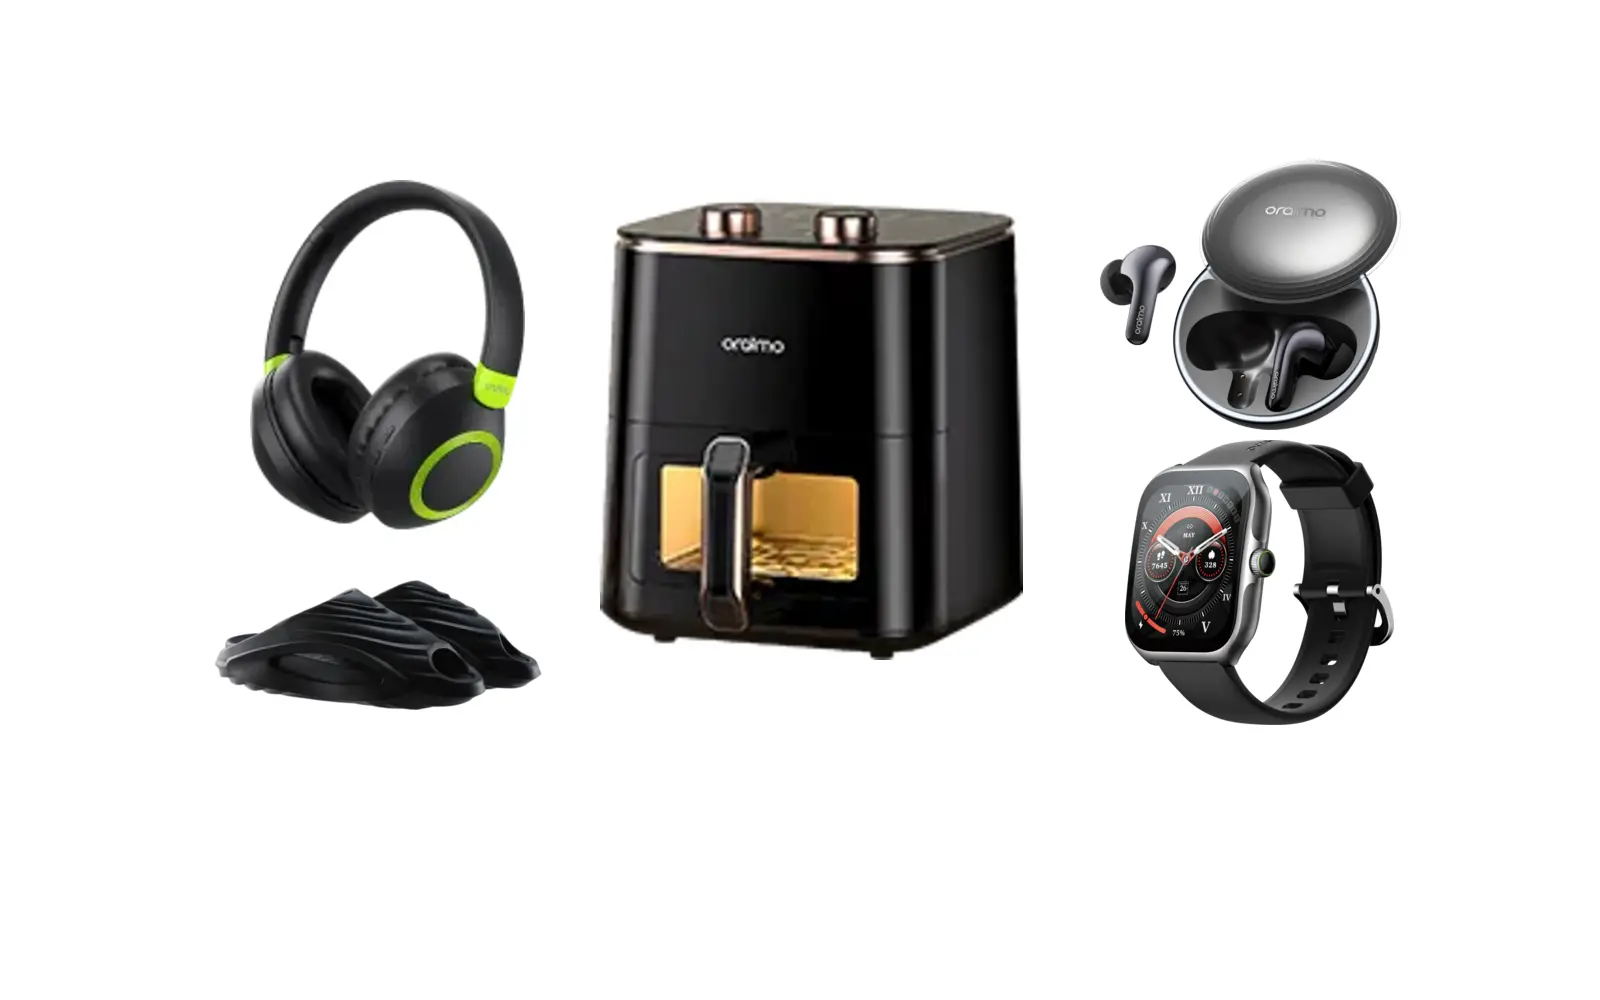
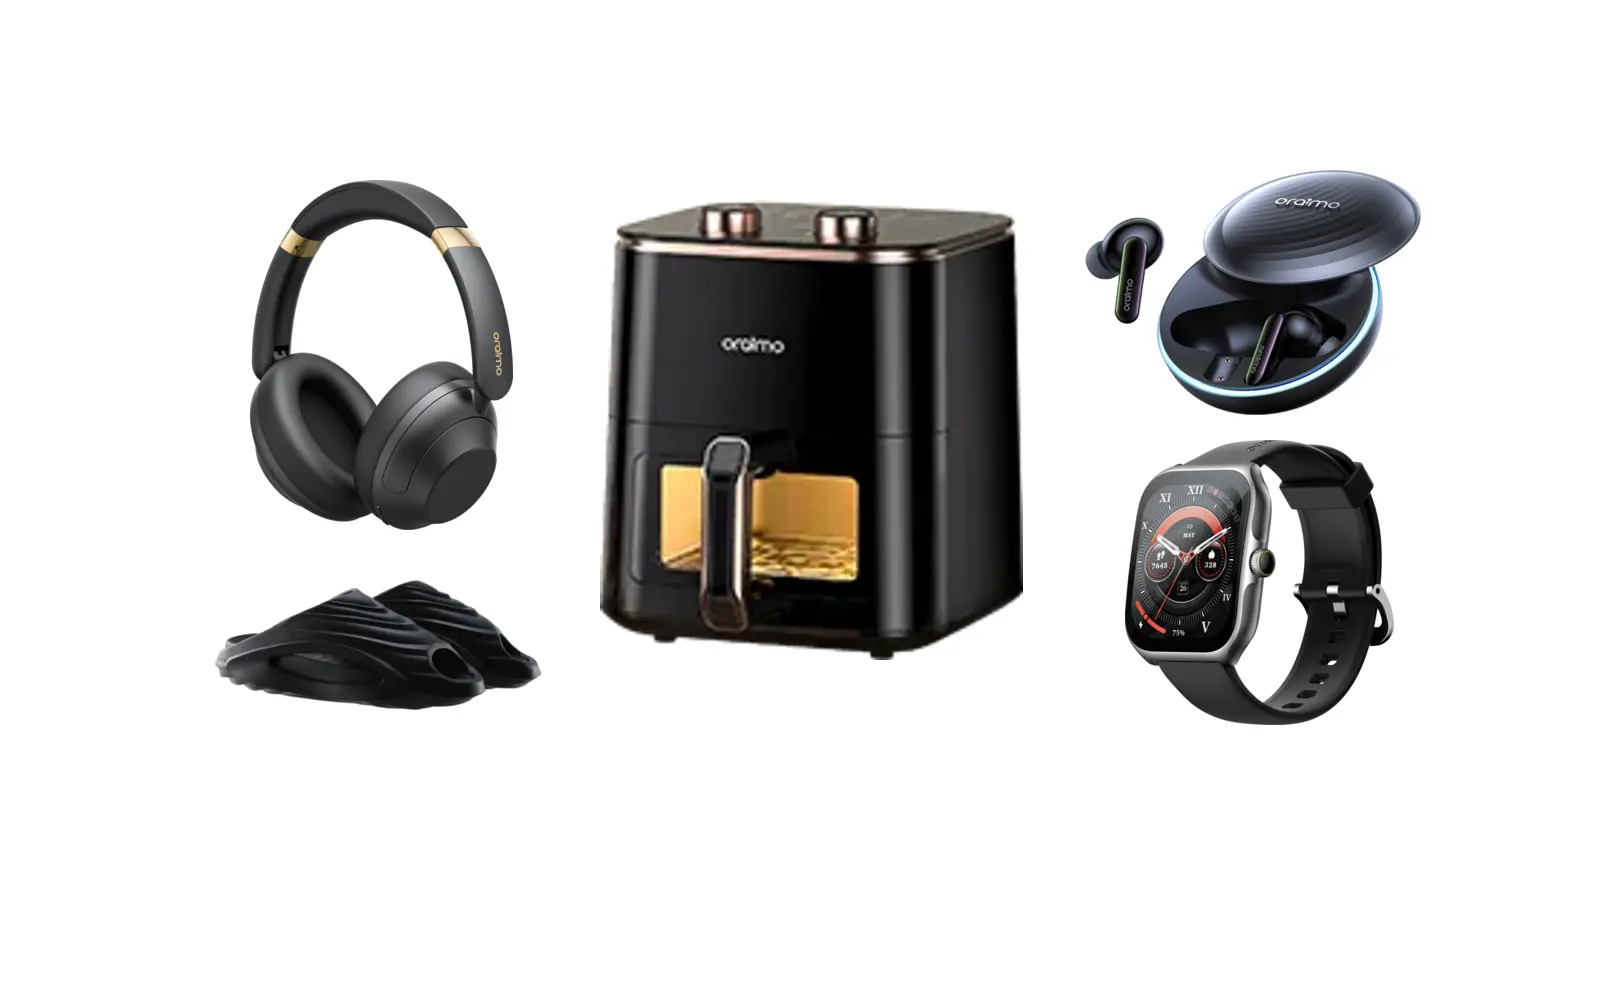
Billet Oraimo : BoomPop Pro, SpaceBuds (premier modèle) et MistGlide
Corrections de l'auteur (FR et EN) :
- le casque est le BoomPop Pro, pas le BoomPop 2 ;
- les écouteurs sont les SpaceBuds (premier modèle, OTW-630), pas les
  SpaceBuds 2 : nouveau lien vers la fiche oraimo.com ;
- le MistGlide a 6 mois : « peut-être » disparaît.

Photos remplacées (oraimo-spacebuds.webp, oraimo-boompop-pro.webp),
anciennes supprimées, couverture et carte OG refaites avec les bons
produits. updatedAt renseigné : un fait du billet est corrigé.

Claude-Session: https://claude.ai/code/session_015fgg94e3Knw2Sr3SywF1Nt

Changed region(s): [[0.1562, 0.155, 0.3438, 0.527], [0.6562, 0.155, 0.9062, 0.434]]

diff --git a/content/fr/20261103-oraimo-avis-produits-rapport-qualite-prix.md b/content/fr/20261103-oraimo-avis-produits-rapport-qualite-prix.md
@@ -1,6 +1,7 @@
 ---
 title: "Avis produits Oraimo : tout, tout, tout"
 createdAt: "2026-11-09T19:05:00Z"
+updatedAt: "2026-11-09T19:19:00Z"
 image: "/images/articles/oraimo-produits.webp"
 description: "Mon avis sur les produits Oraimo : batterie, écouteurs, air fryer, balai, mug. Ceux que je rachèterais, et ceux que je ne rachèterais pas. Sans commission."
 searchIntent: "Les produits Oraimo (écouteurs, batterie externe, électroménager, ménage, vêtements) valent-ils vraiment leur prix ?"
@@ -23,9 +24,9 @@ Mon premier produit Oraimo, et donc mon premier contact avec la marque, est une 
 
 ![Écouteurs filaires intra-auriculaires Oraimo CONCH, noirs, avec une télécommande sur le fil et une prise jack 3,5 mm](/images/articles/oraimo-conch-2.webp)
 
-Puis un jour, en allant faire les courses, j'ai perdu le boîtier de charge de mes Sony WF-C500. (Au passage, impossible de les recharger avec le boîtier d'autres écouteurs Sony : j'ai essayé avec celui des WF-1000XM4.) Je cherchais une solution pas trop chère, alors j'ai acheté les [Oraimo SpaceBuds 2](https://ci.oraimo.com/product/oraimo-spacebuds-2-true-wireless-earbuds-otw-631-spacegrey){target="_blank" rel="noopener"}. Ils sont meilleurs que je ne le pensais, même si la réduction du bruit ambiant est passable. L'autonomie, elle, est bonne. Et surtout, ils ont survécu à un passage en machine (cycle Quick 45 minutes, 40 °C).
+Puis un jour, en allant faire les courses, j'ai perdu le boîtier de charge de mes Sony WF-C500. (Au passage, impossible de les recharger avec le boîtier d'autres écouteurs Sony : j'ai essayé avec celui des WF-1000XM4.) Je cherchais une solution pas trop chère, alors j'ai acheté les [Oraimo SpaceBuds](https://oraimo.com/en/product/beyond-sound-spacebuds){target="_blank" rel="noopener"}, le premier modèle. Ils sont meilleurs que je ne le pensais, même si la réduction du bruit ambiant est passable. L'autonomie, elle, est bonne. Et surtout, ils ont survécu à un passage en machine (cycle Quick 45 minutes, 40 °C).
 
-![Écouteurs sans fil Oraimo SpaceBuds 2 gris sidéral, posés dans leur boîtier de charge ouvert](/images/articles/oraimo-spacebuds-2.webp)
+![Écouteurs sans fil Oraimo SpaceBuds noirs, posés devant leur boîtier de charge ouvert, éclairé d'un anneau bleu](/images/articles/oraimo-spacebuds.webp)
 
 ### La batterie externe
 
@@ -53,7 +54,7 @@ Une fois le repas cuisiné, il faut nettoyer. Pour la vaisselle, j'ai l'[Oraimo 
 
 ![Brosse électrique rotative sans fil Oraimo, blanche, entourée de ses cinq têtes de rechange](/images/articles/oraimo-ultracleaner-scrubber.webp)
 
-Et j'ai le [MistGlide](https://ci.oraimo.com/product/oraimo-mistglide-multi-surface-use-deep-cleaning-spray-mop--ohcs-001){target="_blank" rel="noopener"}, qui est peut-être le balai à spray qui m'a duré le plus longtemps.
+Et j'ai le [MistGlide](https://ci.oraimo.com/product/oraimo-mistglide-multi-surface-use-deep-cleaning-spray-mop--ohcs-001){target="_blank" rel="noopener"}. Je l'ai depuis 6 mois : c'est le balai à spray qui m'a duré le plus longtemps.
 
 ![Balai à spray Oraimo MistGlide, avec son réservoir fixé sur le manche et sa tête plate en microfibre](/images/articles/oraimo-mistglide.webp)
 
@@ -77,9 +78,9 @@ J'ai aussi les polos EcoLuxe, à 9 000 FCFA. Ils sont confortables. Le bémol 
 
 ## Je ne rachète pas
 
-J'ai le casque Oraimo BoomPop 2. C'est un bon casque, avec une bonne autonomie, mais un son qui n'a rien d'exceptionnel, tout comme sa réduction de bruit. Pire : les coussinets en similicuir sont en train de s'effriter.
+J'ai le casque Oraimo BoomPop Pro. C'est un bon casque, avec une bonne autonomie, mais un son qui n'a rien d'exceptionnel, tout comme sa réduction de bruit. Pire : les coussinets en similicuir sont en train de s'effriter.
 
-![Casque sans fil Oraimo BoomPop 2, noir avec des anneaux vert fluo autour des écouteurs](/images/articles/oraimo-boompop-2.webp)
+![Casque sans fil Oraimo BoomPop Pro, noir avec des touches dorées sur l'arceau](/images/articles/oraimo-boompop-pro.webp)
 
 J'adore les montres connectées. J'ai déjà parlé de l'Oraimo Watch Nova AM dans [mon comparatif avec l'Infinix Watch 3](/fr/20251225-infinix-ou-oraimo). Aujourd'hui, je ne porte plus ni l'une ni l'autre : j'ai une [Google Pixel Watch](/fr/20260311-comment-allumer-lecran-pixel-watch-notifications), qui est meilleure.
 
@@ -90,24 +91,24 @@ J'adore les montres connectées. J'ai déjà parlé de l'Oraimo Watch Nova AM da
 | Produit | Prix payé (FCFA) | Je rachète ? | En une phrase |
 |---|---|---|---|
 | Écouteurs CONCH | 2 000 à 3 000 | Oui | Solides, avec des basses un peu trop fortes. |
-| Écouteurs SpaceBuds 2 | 20 000 | Oui | Bonne autonomie, réduction de bruit passable, et ils ont survécu à la machine à laver. |
+| Écouteurs SpaceBuds | 20 000 | Oui | Bonne autonomie, réduction de bruit passable, et ils ont survécu à la machine à laver. |
 | Batterie PowerJet 130 | 32 500 | Oui | Très bonne, et elle gère bien en déplacement. |
 | Mug ThermoGo | 7 000 | Oui | Un mug isotherme de 750 ml, qui garde le frais plus d'une demi-journée. |
 | Bouteille MegaDrink 1200 | 12 000 | Oui | Une bouteille isotherme de 1,2 L, étanche, qui garde le frais plus d'une demi-journée. |
 | Friteuse SmartAirFryer | 30 000 | Oui | Aucune odeur de plastique brûlé, et elle se nettoie très facilement. |
 | Brosse rotative Ultra Cleaner Scrubber | 9 000 | Oui | Elle dégraisse casseroles et comptoirs. |
-| Balai MistGlide | 7 000 | Oui | Le balai à spray qui m'a duré le plus longtemps. |
+| Balai MistGlide | 7 000 | Oui | Le balai à spray qui m'a duré le plus longtemps : 6 mois à ce jour. |
 | Brosse à dents MagniSonic | 5 000 | Oui | Très efficace. |
 | T-shirts NanoShield | 7 000 | Oui | Confortables, ils résistent aux taches. |
 | Claquettes CrestFrom | 4 900 | Oui | Très confortables, et très inspirées des Yeezy Foam Runner. |
 | Plaque FlexiCooker | 30 000 | Oui, avec un bémol | Certains programmes consomment plus d'électricité que d'autres. |
 | Polos EcoLuxe | 9 000 | Oui, avec un bémol | Confortables, mais en tailles chinoises, donc plus petits. |
-| Casque BoomPop 2 | 25 000 | Non | Son et réduction de bruit ordinaires, coussinets qui s'effritent. |
+| Casque BoomPop Pro | 25 000 | Non | Son et réduction de bruit ordinaires, coussinets qui s'effritent. |
 | Montre Watch Nova AM | 15 000 | Non | Ma Google Pixel Watch est meilleure. |
 
 Ce sont les prix que j'ai payés à Abidjan, sur Glovo, chez un vendeur à deux rues de chez moi ou sur le site d'Oraimo. En ligne, ils changent souvent avec les promotions.
 
-Presque tous ces produits sont de bonne qualité pour leur petit prix. Les exceptions : le casque BoomPop 2 et la Watch Nova AM.
+Presque tous ces produits sont de bonne qualité pour leur petit prix. Les exceptions : le casque BoomPop Pro et la Watch Nova AM.
 
 _Images : Oraimo._
 

diff --git a/content/en/20261103-oraimo-avis-produits-rapport-qualite-prix.md b/content/en/20261103-oraimo-avis-produits-rapport-qualite-prix.md
@@ -1,6 +1,7 @@
 ---
 title: "Oraimo review: everything, everything"
 createdAt: "2026-11-09T19:05:00Z"
+updatedAt: "2026-11-09T19:19:00Z"
 image: "/images/articles/oraimo-produits.webp"
 description: "My Oraimo review: power bank, earbuds, air fryer, mop, mug. The products I'd buy again, and the ones I wouldn't. No commission, just everyday use."
 searchIntent: "Are Oraimo products (earbuds, power bank, kitchen appliances, cleaning tools, clothes) really worth the money?"
@@ -23,9 +24,9 @@ My first Oraimo product, and so my first contact with the brand, was a pair of e
 
 ![Oraimo CONCH wired in-ear earphones, black, with an inline remote and a 3.5 mm jack](/images/articles/oraimo-conch-2.webp)
 
-Then one day, on my way to the shops, I lost the charging case of my Sony WF-C500. (By the way, you can't charge them in the case of other Sony earbuds: I tried with the WF-1000XM4 case.) I wanted a cheap fix, so I bought the [Oraimo SpaceBuds 2](https://ci.oraimo.com/product/oraimo-spacebuds-2-true-wireless-earbuds-otw-631-spacegrey){target="_blank" rel="noopener"}. They're better than I expected, even if the noise cancellation is only so-so. Battery life is good. And above all, they survived a trip through the washing machine (Quick 45-minute cycle, 40 °C).
+Then one day, on my way to the shops, I lost the charging case of my Sony WF-C500. (By the way, you can't charge them in the case of other Sony earbuds: I tried with the WF-1000XM4 case.) I wanted a cheap fix, so I bought the [Oraimo SpaceBuds](https://oraimo.com/en/product/beyond-sound-spacebuds){target="_blank" rel="noopener"}, the first model. They're better than I expected, even if the noise cancellation is only so-so. Battery life is good. And above all, they survived a trip through the washing machine (Quick 45-minute cycle, 40 °C).
 
-![Oraimo SpaceBuds 2 wireless earbuds in space grey, sitting in their open charging case](/images/articles/oraimo-spacebuds-2.webp)
+![Black Oraimo SpaceBuds wireless earbuds in front of their open charging case, lit by a blue ring](/images/articles/oraimo-spacebuds.webp)
 
 ### Power bank
 
@@ -53,7 +54,7 @@ Once the meal is cooked, it's time to clean. For the dishes, I have the [Oraimo 
 
 ![White Oraimo cordless electric spin brush, surrounded by its five replacement heads](/images/articles/oraimo-ultracleaner-scrubber.webp)
 
-And I have the [MistGlide](https://ci.oraimo.com/product/oraimo-mistglide-multi-surface-use-deep-cleaning-spray-mop--ohcs-001){target="_blank" rel="noopener"}, which may be the spray mop that has lasted me the longest.
+And I have the [MistGlide](https://ci.oraimo.com/product/oraimo-mistglide-multi-surface-use-deep-cleaning-spray-mop--ohcs-001){target="_blank" rel="noopener"}. I've had it for 6 months: it's the spray mop that has lasted me the longest.
 
 ![Oraimo MistGlide spray mop, with its tank on the handle and a flat microfibre head](/images/articles/oraimo-mistglide.webp)
 
@@ -77,9 +78,9 @@ I also have the EcoLuxe polo shirts, at 9,000 CFA francs. They're comfortable. 
 
 ## I wouldn't buy again
 
-I have the Oraimo BoomPop 2 headphones. They're good headphones, with good battery life, but the sound is nothing special, and neither is the noise cancellation. Worse: the faux-leather ear pads are flaking.
+I have the Oraimo BoomPop Pro headphones. They're good headphones, with good battery life, but the sound is nothing special, and neither is the noise cancellation. Worse: the faux-leather ear pads are flaking.
 
-![Oraimo BoomPop 2 wireless headphones, black with neon green rings around the ear cups](/images/articles/oraimo-boompop-2.webp)
+![Oraimo BoomPop Pro wireless headphones, black with gold accents on the headband](/images/articles/oraimo-boompop-pro.webp)
 
 I love smartwatches. I've already written about the Oraimo Watch Nova AM in [my comparison with the Infinix Watch 3](/en/20251225-infinix-ou-oraimo). Today I wear neither of them: I have a [Google Pixel Watch](/en/20260311-comment-allumer-lecran-pixel-watch-notifications), which is better.
 
@@ -90,24 +91,24 @@ I love smartwatches. I've already written about the Oraimo Watch Nova AM in [my 
 | Product | Price paid (CFA francs) | Would I buy it again? | In one sentence |
 |---|---|---|---|
 | CONCH earphones | 2,000 to 3,000 | Yes | Sturdy, with slightly too much bass. |
-| SpaceBuds 2 earbuds | 20,000 | Yes | Good battery life, so-so noise cancellation, and they survived the washing machine. |
+| SpaceBuds earbuds | 20,000 | Yes | Good battery life, so-so noise cancellation, and they survived the washing machine. |
 | PowerJet 130 power bank | 32,500 | Yes | Very good, and it handles life on the move well. |
 | ThermoGo mug | 7,000 | Yes | A 750 ml insulated mug that keeps drinks cold for more than half a day. |
 | MegaDrink 1200 bottle | 12,000 | Yes | A 1.2 L leak-proof insulated bottle that keeps drinks cold for more than half a day. |
 | SmartAirFryer | 30,000 | Yes | No smell of burnt plastic, and very easy to clean. |
 | Ultra Cleaner Scrubber spin brush | 9,000 | Yes | It degreases pots and kitchen counters. |
-| MistGlide mop | 7,000 | Yes | The spray mop that has lasted me the longest. |
+| MistGlide mop | 7,000 | Yes | The spray mop that has lasted me the longest: 6 months so far. |
 | MagniSonic toothbrush | 5,000 | Yes | Works very well. |
 | NanoShield T-shirts | 7,000 | Yes | Comfortable and stain-resistant. |
 | CrestFrom slides | 4,900 | Yes | Very comfortable, and heavily inspired by the Yeezy Foam Runner. |
 | FlexiCooker hot plate | 30,000 | Yes, with a catch | Some programmes use more electricity than others. |
 | EcoLuxe polo shirts | 9,000 | Yes, with a catch | Comfortable, but in Chinese sizes, so smaller. |
-| BoomPop 2 headphones | 25,000 | No | Ordinary sound and noise cancellation, flaking ear pads. |
+| BoomPop Pro headphones | 25,000 | No | Ordinary sound and noise cancellation, flaking ear pads. |
 | Watch Nova AM | 15,000 | No | My Google Pixel Watch is better. |
 
 These are the prices I paid in Abidjan, on Glovo, at a shop two streets from my place, or on Oraimo's website. Online prices change often with promotions.
 
-Almost all of these products are good quality for their low price. The exceptions: the BoomPop 2 headphones and the Watch Nova AM.
+Almost all of these products are good quality for their low price. The exceptions: the BoomPop Pro headphones and the Watch Nova AM.
 
 _Images: Oraimo._
 
